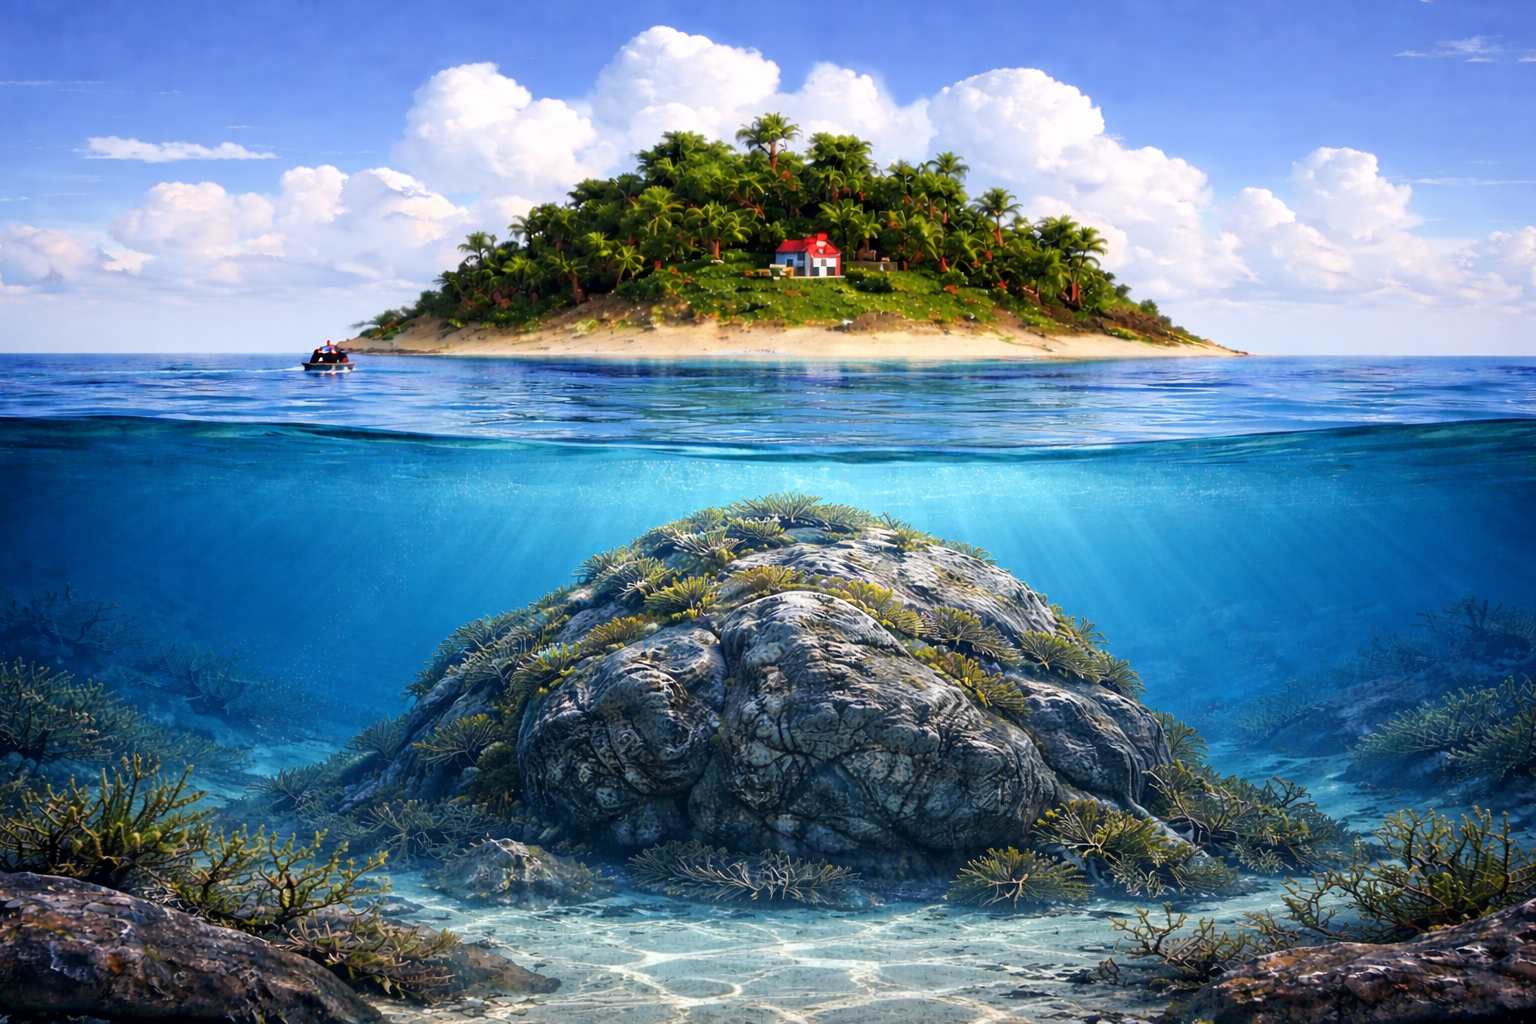
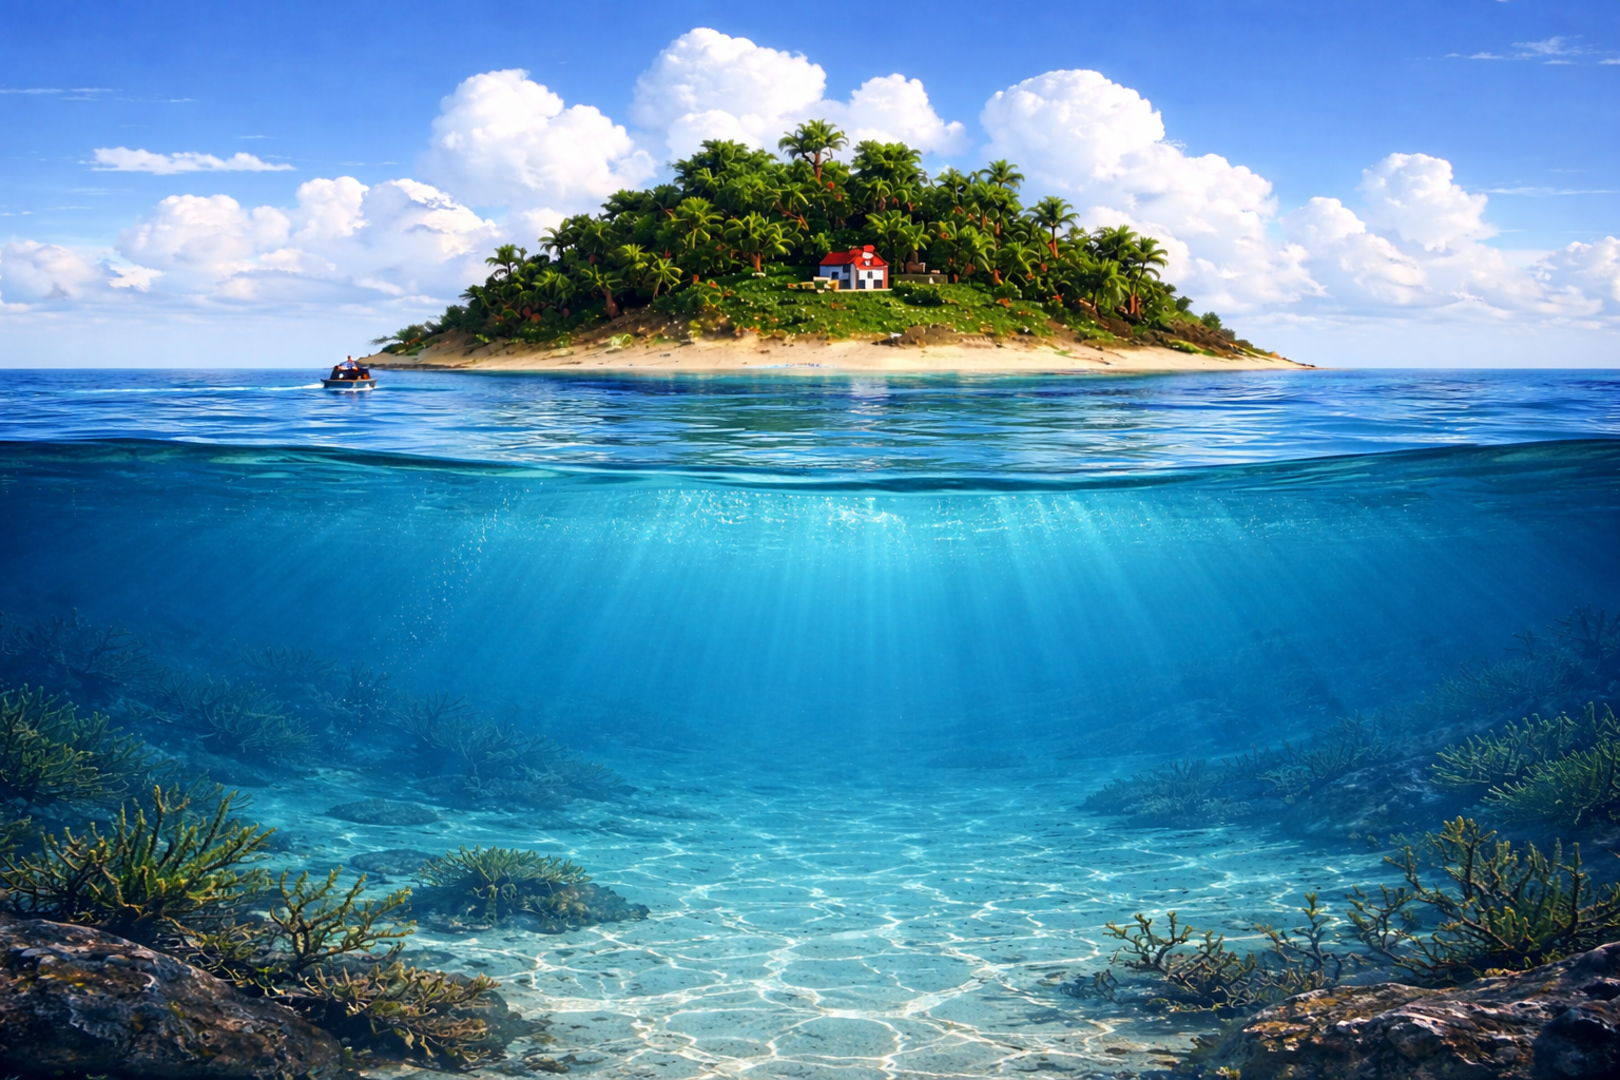
Add files via upload

diff --git a/js/script.js b/js/script.js
@@ -28,7 +28,7 @@ let reelTargetY = -2;          // končni Y položaj, ko je riba čisto zgoraj
 let reelStepUp = 30;           // koliko pikslov gre gor na en "poteg"
 let slipChance = 0.10;         // verjetnost, da malo zdrsne nazaj
 let slipAmount = 4;            // koliko zdrsne navzdol
-let stepDuration = 250;        // trajanje enega koraka animacije
+let stepDuration = 150;        // trajanje enega koraka animacije
 
 // Slike tune glede na smer
 const TUNA_DIR = {

diff --git a/css/style.css b/css/style.css
@@ -17,7 +17,7 @@ body {
   justify-content: flex-start;
   padding-top: 35vh;
   box-sizing: border-box;
-  background: url('../img/ozadje2.png') center no-repeat;
+  background: url('../img/ozadje3.png') center no-repeat;
   background-size: cover;
   background-attachment: fixed;
 }
